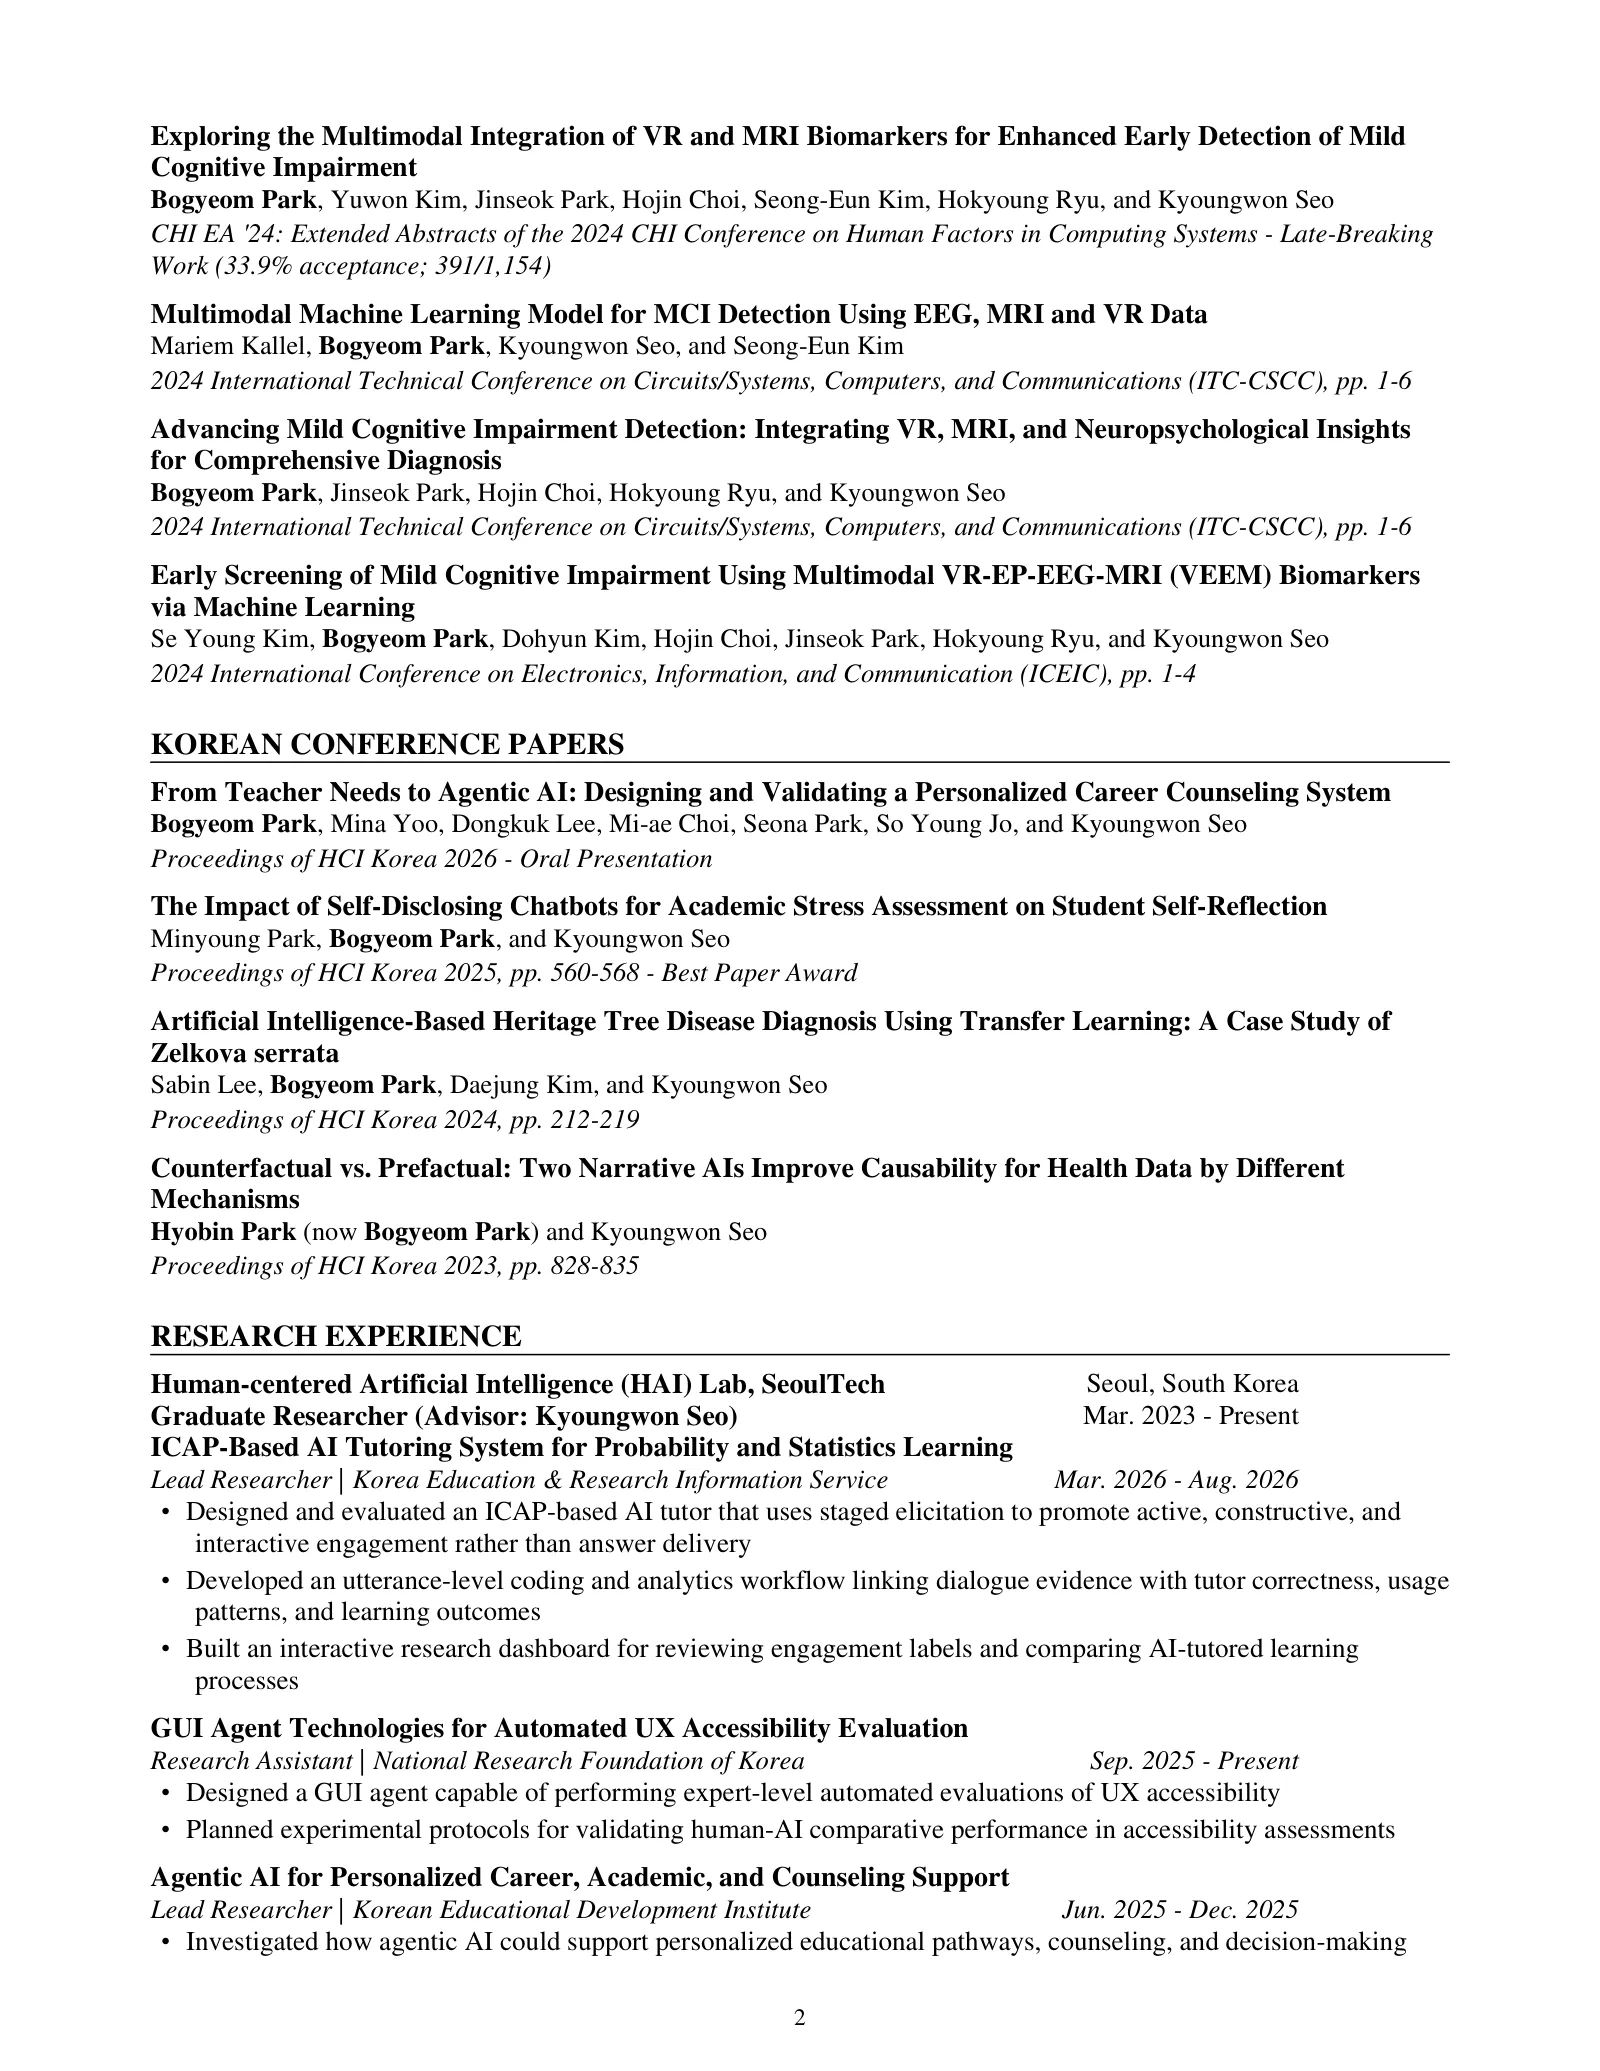
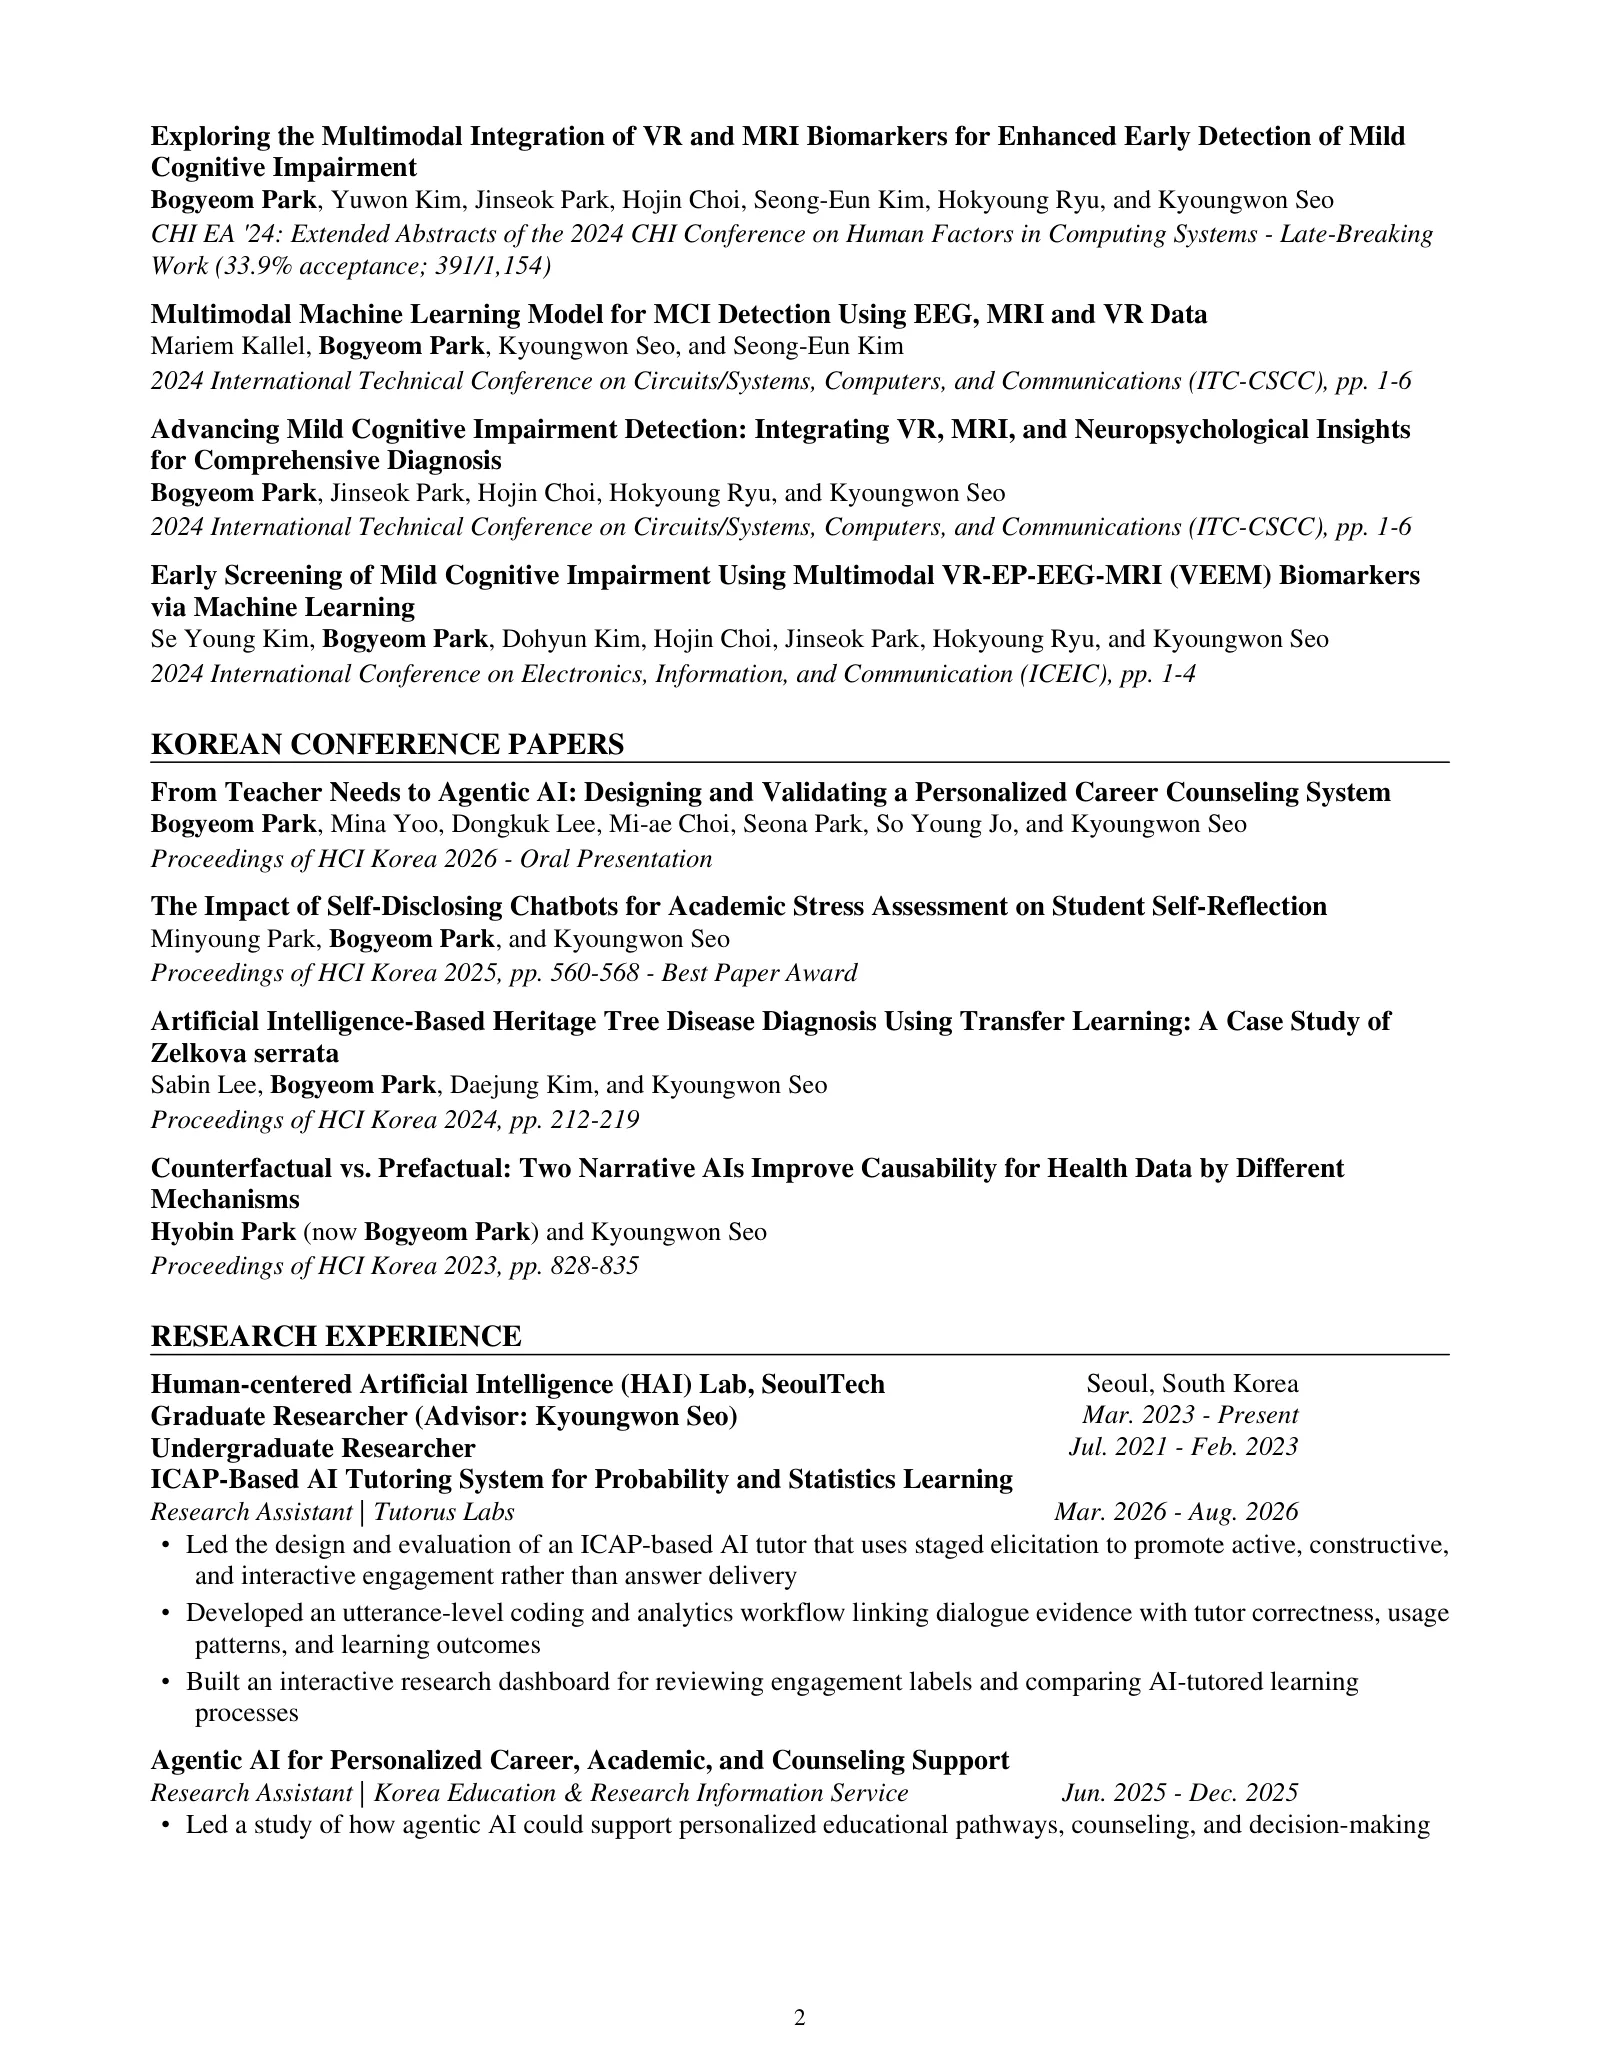
Rebuild the CV's research experience around the six funded projects
Six grants, one list. The section had grown from what was to hand rather than
from the record, so it carried a lab project that was not funded work, split one
NRF award in two directions and missed a company contract entirely.

Roles are Research Assistant throughout. That is what a 참여연구원 is in English,
and it is what the paperwork says. Lead Researcher was on two entries and does
not survive contact with a grant document that names someone else as PI — the
leading is in the bullets instead, where it is a verb and a claim someone can
check: led the design and evaluation, led a study of.

Funders were swapped between two entries. The tutoring work is commissioned by
Tutorus Labs, not KERIS; the career counseling work is KERIS, not KEDI.

The dementia work was one entry covering two awards. NRF-2021R1C1C1005688 is the
multimodal deep-learning model and NRF-2021R1A4A5033480 is the VEEM basic research
laboratory that built the VR, EEG and MRI data with Hanyang University Guri
Hospital, so each keeps the bullet that belongs to it.

Added the SUNGHA tree-disease contract, which produced the HCI Korea 2024 paper
and was not on the CV at all. Dropped "LLMs to Support Teachers", a lab project
rather than a funded one.

One affiliation block, not two. The lab and the advisor have not changed since
2021, and splitting by student status printed the same org and the same name
twice while forcing every award that crosses Feb. 2023 onto one side. The status
[…]

Changed region(s): [[0.0938, 0.6799, 0.9062, 0.958], [0.6562, 0.9271, 0.7188, 0.958], [0.8438, 0.9271, 0.875, 0.958]]

diff --git a/scripts/cv_data.py b/scripts/cv_data.py
@@ -199,20 +199,27 @@ DOMESTIC = [
 ]
 
 # Each affiliation holds the projects carried out under it, in CV order.
+# One affiliation, not two. The lab and the advisor have been the same since 2021,
+# and splitting the block by student status printed the same org and the same name
+# twice while forcing every grant that crosses Feb. 2023 into one side or the other.
+# The status change is two lines here; Education already dates the degrees.
+# Projects run in one reverse-chronological list underneath, by start date.
 RESEARCH_EXPERIENCE = [
     {
         "org": "Human-centered Artificial Intelligence (HAI) Lab, SeoulTech",
         "place": "Seoul, South Korea",
-        "role": "Graduate Researcher (Advisor: Kyoungwon Seo)",
-        "dates": "Mar. 2023 - Present",
+        "roles": [
+            ("Graduate Researcher (Advisor: Kyoungwon Seo)", "Mar. 2023 - Present"),
+            ("Undergraduate Researcher", "Jul. 2021 - Feb. 2023"),
+        ],
         "projects": [
             {
                 "title": "ICAP-Based AI Tutoring System for Probability and Statistics Learning",
-                "role": "Lead Researcher | Korea Education & Research Information Service",
+                "role": "Research Assistant | Tutorus Labs",
                 "dates": "Mar. 2026 - Aug. 2026",
                 "bullets": [
-                    "Designed and evaluated an ICAP-based AI tutor that uses staged elicitation to "
-                    "promote active, constructive, and interactive engagement rather than answer delivery",
+                    "Led the design and evaluation of an ICAP-based AI tutor that uses staged elicitation "
+                    "to promote active, constructive, and interactive engagement rather than answer delivery",
                     "Developed an utterance-level coding and analytics workflow linking dialogue evidence "
                     "with tutor correctness, usage patterns, and learning outcomes",
                     "Built an interactive research dashboard for reviewing engagement labels and "
@@ -220,22 +227,11 @@ RESEARCH_EXPERIENCE = [
                 ],
             },
             {
-                "title": "GUI Agent Technologies for Automated UX Accessibility Evaluation",
-                "role": "Research Assistant | National Research Foundation of Korea",
-                "dates": "Sep. 2025 - Present",
-                "bullets": [
-                    "Designed a GUI agent capable of performing expert-level automated evaluations of "
-                    "UX accessibility",
-                    "Planned experimental protocols for validating human-AI comparative performance in "
-                    "accessibility assessments",
-                ],
-            },
-            {
                 "title": "Agentic AI for Personalized Career, Academic, and Counseling Support",
-                "role": "Lead Researcher | Korean Educational Development Institute",
+                "role": "Research Assistant | Korea Education & Research Information Service",
                 "dates": "Jun. 2025 - Dec. 2025",
                 "bullets": [
-                    "Investigated how agentic AI could support personalized educational pathways, "
+                    "Led a study of how agentic AI could support personalized educational pathways, "
                     "counseling, and decision-making",
                 ],
             },
@@ -245,38 +241,42 @@ RESEARCH_EXPERIENCE = [
                     "Research Assistant | Institute for Information & Communications Technology "
                     "Planning & Evaluation"
                 ),
-                "dates": "Jul. 2023 - Aug. 2025",
+                "dates": "Jul. 2023 - Dec. 2025",
                 "bullets": [
                     "Built counseling chatbot and analysis models supporting AI-driven student coaching",
                     "Co-developed an integrated platform enabling personalized teacher-augmented learning",
                 ],
             },
-        ],
-    },
-    {
-        "org": "Human-centered Artificial Intelligence (HAI) Lab, SeoulTech",
-        "place": "Seoul, South Korea",
-        "role": "Undergraduate Researcher (Advisor: Kyoungwon Seo)",
-        "dates": "Jul. 2021 - Feb. 2023",
-        "projects": [
             {
-                "title": "LLMs to Support Teachers in Educational Settings",
-                "role": "Research Assistant | Lab Project",
-                "dates": "Mar. 2023 - Feb. 2024",
+                "title": (
+                    "AI-Based Early Screening and Prognosis Prediction for Landscape Tree Disease"
+                ),
+                "role": "Research Assistant | SUNGHA Co., Ltd.",
+                "dates": "Jul. 2023 - Dec. 2023",
                 "bullets": [
-                    "Fine-tuned an LLM to generate student competency-analysis reports and assessed its "
-                    "usefulness through expert interviews",
-                    "Identified opportunities and limitations of LLM support for competency assessment "
-                    "and report generation",
+                    "Built an expert-validated image dataset of Zelkova serrata, the species that "
+                    "accounts for more than half of Korea’s legally protected trees",
+                    "Compared transfer-learning models with and without plant-disease pre-training "
+                    "for early screening of tree disease",
                 ],
             },
             {
-                "title": "Multimodal Digital Biomarkers for Early Dementia Diagnosis",
+                "title": "VR-EP-EEG-MRI Digital Biomarker Basic Research Laboratory",
                 "role": "Research Assistant | National Research Foundation of Korea",
                 "dates": "Mar. 2022 - Feb. 2024",
                 "bullets": [
                     "Collected VR kiosk interaction data from participants with mild cognitive impairment "
                     "and healthy controls in collaboration with Hanyang University Guri Hospital",
+                ],
+            },
+            {
+                "title": (
+                    "Multimodal Deep Learning for Early Dementia Diagnosis from VR "
+                    "Daily-Living Data"
+                ),
+                "role": "Research Assistant | National Research Foundation of Korea",
+                "dates": "Mar. 2022 - Feb. 2024",
+                "bullets": [
                     "Developed multimodal predictive models integrating VR behavioral and MRI biomarkers "
                     "for early detection of mild cognitive impairment",
                 ],
@@ -285,17 +285,8 @@ RESEARCH_EXPERIENCE = [
     },
 ]
 
+# Reverse chronological, like every other dated section here.
 TEACHING = [
-    {
-        "title": "Deep Learning",
-        "dates": "Fall 2023",
-        "role": "Teaching Assistant, Seoul National University of Science and Technology",
-        "bullets": [
-            "Designed a final project using CNN-based models to predict drivers’ physical and "
-            "cognitive states from image data",
-            "Supported lectures, advised student projects, and graded assignments and examinations",
-        ],
-    },
     {
         "title": "2026 AX Academy Big Data Boot Camp",
         "dates": "May 2026 - Aug 2026",
@@ -305,6 +296,16 @@ TEACHING = [
             "big data project from proposal to final deliverable",
             "Advised on analysis design and revised project plans with participants through the "
             "boot camp’s project-based sprints",
+        ],
+    },
+    {
+        "title": "Deep Learning",
+        "dates": "Fall 2023",
+        "role": "Teaching Assistant, Seoul National University of Science and Technology",
+        "bullets": [
+            "Designed a final project using CNN-based models to predict drivers’ physical and "
+            "cognitive states from image data",
+            "Supported lectures, advised student projects, and graded assignments and examinations",
         ],
     },
 ]

diff --git a/scripts/build_cv.py b/scripts/build_cv.py
@@ -283,7 +283,11 @@ def build():
     story += section(cv_data.SECTION_TITLES["experience"])
     for affiliation in cv_data.RESEARCH_EXPERIENCE:
         story.append(two_col(affiliation["org"], affiliation["place"]))
-        story.append(two_col(affiliation["role"], affiliation["dates"]))
+        # Dates are italic everywhere in this CV; the left column carries the
+        # hierarchy on its own (bold for an affiliation, italic for a project).
+        # One line per student status, under a single org heading.
+        for role, dates in affiliation["roles"]:
+            story.append(two_col(role, dates, right_style="CVItalicRight"))
         for proj in affiliation["projects"]:
             story += project(proj["title"], proj["role"], proj["dates"], proj["bullets"])
 
@@ -291,7 +295,7 @@ def build():
     for index, course in enumerate(cv_data.TEACHING):
         if index:
             story.append(Spacer(1, 6))
-        story.append(two_col(course["title"], course["dates"]))
+        story.append(two_col(course["title"], course["dates"], right_style="CVItalicRight"))
         story.append(Paragraph(course["role"], styles["Meta"]))
         story += [bullet(text) for text in course["bullets"]]
 
